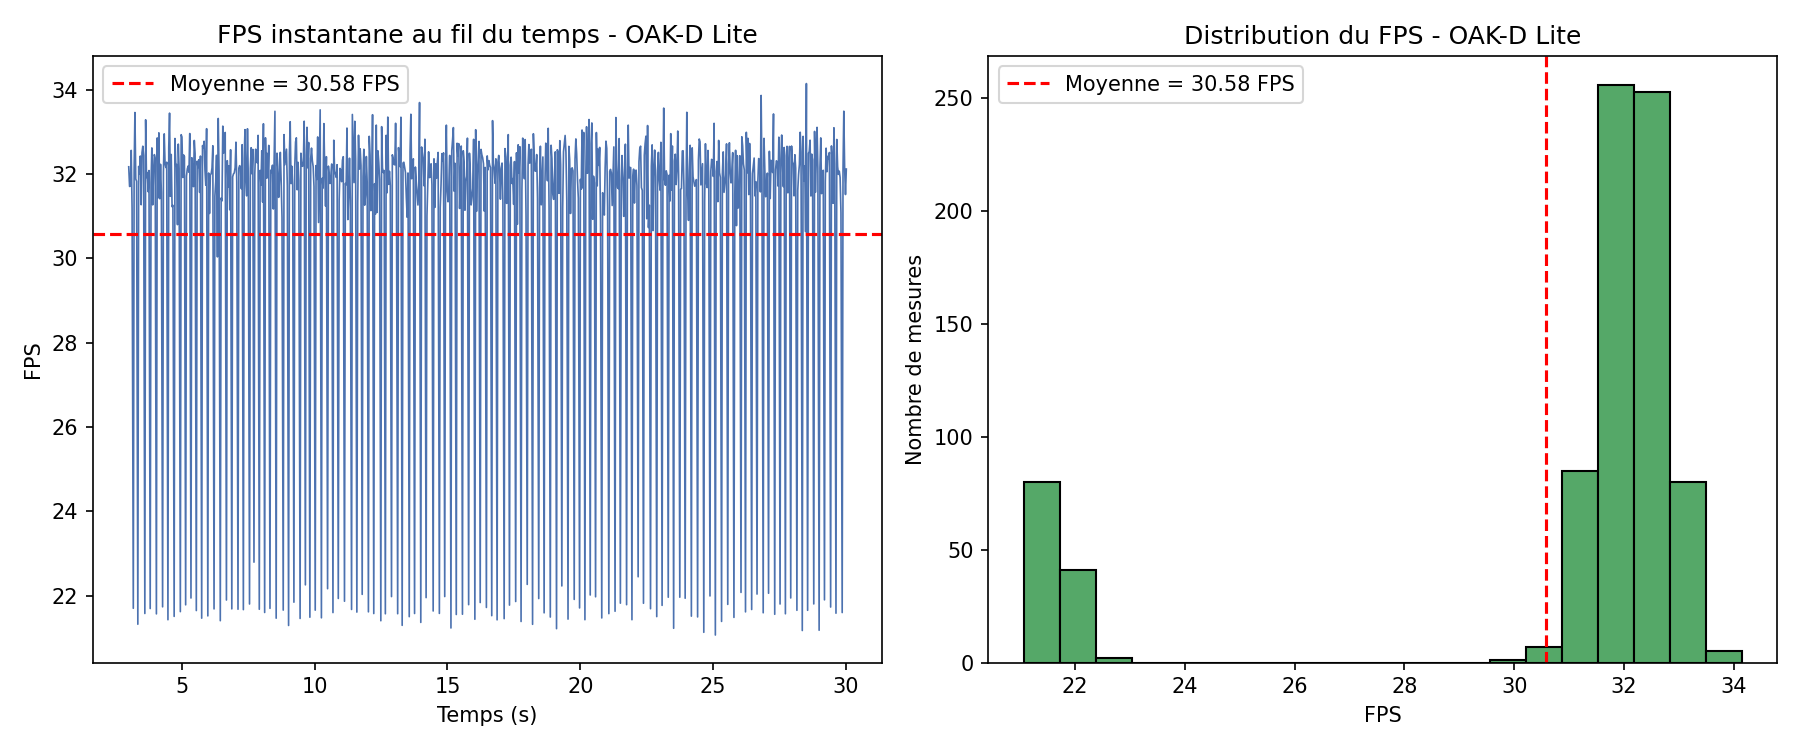
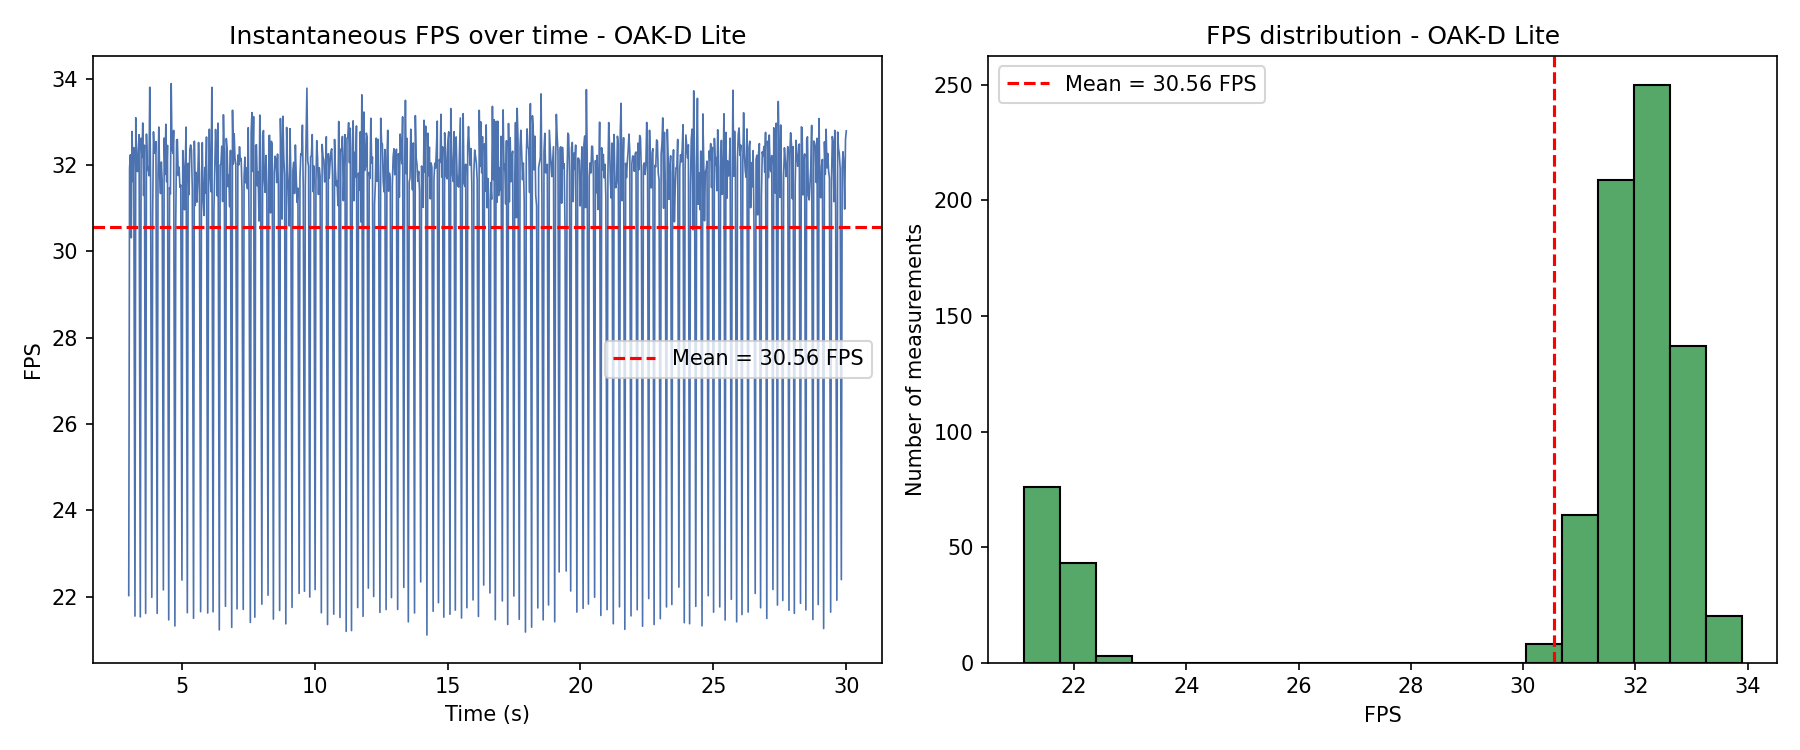
OAK-D Lite: final benchmark runs (50.51 ms, 31.98 FPS, 58/80)

diff --git a/cameras/5-oak-d-lite/benchmark/latency/benchmark_latence_oakd.py b/cameras/5-oak-d-lite/benchmark/latency/benchmark_latence_oakd.py
@@ -18,9 +18,9 @@ PING_TIMEOUT = 1.0
 
 
 def mesurer_segment_a():
-    """Segment A : latence de traitement (mesure cote PC, capture -> resultat recu)."""
+    """Segment A: processing latency (measured on the PC side, capture -> result received)."""
     mesures_ms = []
-    frames_en_attente = {}  # sequence_num -> time.perf_counter() a la reception de la frame
+    frames_en_attente = {}  # sequence_num -> time.perf_counter() when the frame was received
 
     demarrage = False
 
@@ -36,8 +36,8 @@ def mesurer_segment_a():
         nnQueue = nn.out.createOutputQueue()
 
         pipeline.start()
-        print("Positionne-toi devant la camera, puis appuie sur 's' pour demarrer la mesure.")
-        print("(Appuie sur 'q' pour quitter a tout moment)")
+        print("Position yourself in front of the camera, then press 's' to start the measurement.")
+        print("(Press 'q' to quit at any time)")
 
         dernier_label, dernier_score = "none", 0.0
 
@@ -50,10 +50,10 @@ def mesurer_segment_a():
                 texte = f"{dernier_label} ({dernier_score:.2f})"
                 couleur = (0, 255, 0) if demarrage else (0, 165, 255)
                 cv2.putText(frame, texte, (10, 25), cv2.FONT_HERSHEY_SIMPLEX, 0.8, couleur, 2)
-                statut = "MESURE EN COURS" if demarrage else "Appuie sur 's' pour demarrer"
+                statut = "MEASURING" if demarrage else "Press 's' to start"
                 cv2.putText(frame, f"{statut} ({len(mesures_ms)}/{N_MESURES})",
                             (10, INPUT_SIZE - 15), cv2.FONT_HERSHEY_SIMPLEX, 0.5, couleur, 1)
-                cv2.imshow("OAK-D Lite - benchmark latence", frame)
+                cv2.imshow("OAK-D Lite - latency benchmark", frame)
 
             if nnQueue.has():
                 resultat = nnQueue.get()
@@ -76,7 +76,7 @@ def mesurer_segment_a():
             touche = cv2.waitKey(1)
             if touche == ord('s') and not demarrage:
                 demarrage = True
-                print("Mesure demarree...")
+                print("Measurement started...")
             elif touche == ord('q'):
                 break
 
@@ -90,7 +90,7 @@ def mesurer_segment_a():
 def mesurer_segment_bc():
     ser = serial.Serial(COM_ROBOT, BAUDRATE_ROBOT, timeout=0)
 
-    # Redemarrage logiciel du robot (identique aux autres solutions)
+    # Software restart of the robot (identical to the other solutions)
     time.sleep(0.3)
     ser.write(b'\x03'); time.sleep(0.2)
     ser.write(b'\x02'); time.sleep(0.2)
@@ -108,7 +108,7 @@ def mesurer_segment_bc():
     for i in range(N_MESURES):
         message = json.dumps({"ping": i}) + "\n"
         while ser.in_waiting:
-            ser.readline()  # purge le buffer avant d'envoyer
+            ser.readline()  # flush the buffer before sending
 
         t_envoi = time.perf_counter()
         ser.write(message.encode())
@@ -148,45 +148,45 @@ def calculer_stats(mesures):
 def generer_graphique(mesures_a, mesures_bc, stats_a, stats_bc):
     fig, axes = plt.subplots(1, 2, figsize=(12, 5))
 
-    # Histogramme Segment A
+    # Segment A histogram
     axes[0].hist(mesures_a, bins=20, color="#4C72B0", edgecolor="black")
-    axes[0].axvline(stats_a["moyenne"], color="red", linestyle="--", label=f"Moyenne = {stats_a['moyenne']:.2f} ms")
-    axes[0].set_title("Segment A - OAK-D Lite (traitement)")
-    axes[0].set_xlabel("Latence (ms)")
-    axes[0].set_ylabel("Nombre de mesures")
+    axes[0].axvline(stats_a["moyenne"], color="red", linestyle="--", label=f"Mean = {stats_a['moyenne']:.2f} ms")
+    axes[0].set_title("Segment A - OAK-D Lite (processing)")
+    axes[0].set_xlabel("Latency (ms)")
+    axes[0].set_ylabel("Number of measurements")
     axes[0].legend()
 
-    # Barres comparatives des deux segments
+    # Bar comparison of the two segments
     labels = ["Segment A\n(OAK-D Lite)", "Segment B+C\n(communication)"]
     moyennes = [stats_a["moyenne"], stats_bc["moyenne"]]
     ecarts = [stats_a["ecart_type"], stats_bc["ecart_type"]]
     axes[1].bar(labels, moyennes, yerr=ecarts, capsize=8, color=["#4C72B0", "#DD8452"])
-    axes[1].set_title("Comparaison des segments de latence")
-    axes[1].set_ylabel("Latence moyenne (ms)")
+    axes[1].set_title("Comparison of the latency segments")
+    axes[1].set_ylabel("Mean latency (ms)")
 
     plt.tight_layout()
     plt.savefig("graphique_latence_oakd.png", dpi=150)
-    print("Graphique enregistre : graphique_latence_oakd.png")
+    print("Chart saved: graphique_latence_oakd.png")
     plt.show()
 
 
 def main():
     mesures_a = mesurer_segment_a()
     stats_a = calculer_stats(mesures_a)
-    print("Segment A (OAK-D Lite) :", stats_a, f"-- {len(mesures_a)} mesures")
+    print("Segment A (OAK-D Lite):", stats_a, f"-- {len(mesures_a)} measurements")
 
     mesures_bc = mesurer_segment_bc()
     stats_bc = calculer_stats(mesures_bc)
-    print("Segment B+C (communication) :", stats_bc, f"-- {len(mesures_bc)} mesures")
+    print("Segment B+C (communication):", stats_bc, f"-- {len(mesures_bc)} measurements")
 
     with open("resultats_latence_oakd.csv", "w", newline="") as f:
         writer = csv.writer(f)
-        writer.writerow(["segment", "moyenne_ms", "mediane_ms", "ecart_type_ms", "min_ms", "max_ms", "n"])
+        writer.writerow(["segment", "mean_ms", "median_ms", "std_dev_ms", "min_ms", "max_ms", "n"])
         writer.writerow(["Segment A (OAK-D Lite)", stats_a["moyenne"], stats_a["mediane"],
                           stats_a["ecart_type"], stats_a["min"], stats_a["max"], len(mesures_a)])
         writer.writerow(["Segment B+C (communication)", stats_bc["moyenne"], stats_bc["mediane"],
                           stats_bc["ecart_type"], stats_bc["min"], stats_bc["max"], len(mesures_bc)])
-    print("Resultats exportes dans resultats_latence_oakd.csv")
+    print("Results exported to resultats_latence_oakd.csv")
 
     if mesures_a:
         generer_graphique(mesures_a, mesures_bc, stats_a, stats_bc)

diff --git a/cameras/5-oak-d-lite/benchmark/reliability/benchmark_fiabilite_oakd.py b/cameras/5-oak-d-lite/benchmark/reliability/benchmark_fiabilite_oakd.py
@@ -7,7 +7,7 @@ import matplotlib.pyplot as plt
 from oakd_common import BLOB_PATH, INPUT_SIZE, decoder_yolo
 
 # ----------------------------------------------------------------
-N_PAR_GESTE = 20  # nombre d'essais vises pour chaque geste
+N_PAR_GESTE = 20  # target number of trials for each gesture
 
 GESTES = ["Forward", "Stop", "Left", "Right"]
 TOUCHE_GESTE = {
@@ -20,7 +20,7 @@ TOUCHE_GESTE = {
 
 
 def acquerir_essais():
-    essais = []  # (voulu, detecte)
+    essais = []  # (intended, detected)
     compteur = {g: 0 for g in GESTES}
     dernier_label = "none"
     dernier_score = 0.0
@@ -37,8 +37,8 @@ def acquerir_essais():
         nnQueue = nn.out.createOutputQueue()
 
         pipeline.start()
-        print("Fais un geste, puis appuie sur 1=Forward 2=Stop 3=Left 4=Right pour valider l'essai.")
-        print("(Appuie sur 'q' pour quitter a tout moment)")
+        print("Perform a gesture, then press 1=Forward 2=Stop 3=Left 4=Right to validate the trial.")
+        print("(Press 'q' to quit at any time)")
 
         while pipeline.isRunning():
             if nnQueue.has():
@@ -50,7 +50,7 @@ def acquerir_essais():
                 frame_msg = previewQueue.get()
                 frame = frame_msg.getCvFrame()
 
-                texte = f"Detecte : {dernier_label} ({dernier_score:.2f})"
+                texte = f"Detected: {dernier_label} ({dernier_score:.2f})"
                 cv2.putText(frame, texte, (10, 25), cv2.FONT_HERSHEY_SIMPLEX, 0.7, (0, 255, 0), 2)
 
                 y = 50
@@ -59,7 +59,7 @@ def acquerir_essais():
                                 cv2.FONT_HERSHEY_SIMPLEX, 0.5, (255, 255, 255), 1)
                     y += 20
 
-                cv2.imshow("OAK-D Lite - benchmark fiabilite", frame)
+                cv2.imshow("OAK-D Lite - reliability benchmark", frame)
 
             touche = cv2.waitKey(1) & 0xFF
             if touche == ord('q'):
@@ -68,7 +68,7 @@ def acquerir_essais():
                 voulu = TOUCHE_GESTE[touche]
                 essais.append((voulu, dernier_label))
                 compteur[voulu] += 1
-                print(f"Essai enregistre : voulu={voulu}, detecte={dernier_label} "
+                print(f"Trial recorded: intended={voulu}, detected={dernier_label} "
                       f"({sum(compteur.values())}/{N_PAR_GESTE * len(GESTES)})")
 
                 if all(compteur[g] >= N_PAR_GESTE for g in GESTES):
@@ -97,9 +97,9 @@ def generer_graphique(matrice, labels_possibles):
     ax.set_xticklabels(labels_possibles, rotation=45, ha="right")
     ax.set_yticks(range(len(GESTES)))
     ax.set_yticklabels(GESTES)
-    ax.set_xlabel("Geste detecte")
-    ax.set_ylabel("Geste voulu")
-    ax.set_title("Matrice de confusion - OAK-D Lite")
+    ax.set_xlabel("Detected gesture")
+    ax.set_ylabel("Intended gesture")
+    ax.set_title("Confusion matrix - OAK-D Lite")
 
     for i in range(len(GESTES)):
         for j in range(len(labels_possibles)):
@@ -107,10 +107,10 @@ def generer_graphique(matrice, labels_possibles):
             couleur = "white" if valeur > data.max() / 2 else "black"
             ax.text(j, i, str(valeur), ha="center", va="center", color=couleur)
 
-    fig.colorbar(im, ax=ax, label="Nombre d'essais")
+    fig.colorbar(im, ax=ax, label="Number of trials")
     plt.tight_layout()
     plt.savefig("graphique_fiabilite_oakd.png", dpi=150)
-    print("Graphique enregistre : graphique_fiabilite_oakd.png")
+    print("Chart saved: graphique_fiabilite_oakd.png")
     plt.show()
 
 
@@ -118,26 +118,26 @@ def main():
     essais = acquerir_essais()
 
     if not essais:
-        print("Aucun essai enregistre.")
+        print("No trial recorded.")
         return
 
     matrice, labels_possibles = construire_matrice_confusion(essais)
 
-    print("\nMatrice de confusion :")
+    print("\nConfusion matrix:")
     for voulu in GESTES:
         print(voulu, matrice[voulu])
 
     n_correct = sum(matrice[g][g] for g in GESTES)
     n_total = len(essais)
     taux_reussite = 100.0 * n_correct / n_total
-    print(f"\nTaux de reussite global : {n_correct}/{n_total} ({taux_reussite:.1f}%)")
+    print(f"\nOverall success rate: {n_correct}/{n_total} ({taux_reussite:.1f}%)")
 
     with open("resultats_fiabilite_oakd.csv", "w", newline="") as f:
         writer = csv.writer(f)
-        writer.writerow(["voulu"] + labels_possibles)
+        writer.writerow(["intended"] + labels_possibles)
         for voulu in GESTES:
             writer.writerow([voulu] + [matrice[voulu][det] for det in labels_possibles])
-    print("Resultats exportes dans resultats_fiabilite_oakd.csv")
+    print("Results exported to resultats_fiabilite_oakd.csv")
 
     generer_graphique(matrice, labels_possibles)
 

diff --git a/cameras/5-oak-d-lite/benchmark/fps/benchmark_fps_oakd.py b/cameras/5-oak-d-lite/benchmark/fps/benchmark_fps_oakd.py
@@ -43,8 +43,8 @@ def mesurer_fps():
         nnQueue = nn.out.createOutputQueue()
 
         pipeline.start()
-        print("Positionne-toi devant la camera, puis appuie sur 's' pour demarrer la mesure (30 s).")
-        print("(Appuie sur 'q' pour quitter a tout moment)")
+        print("Position yourself in front of the camera, then press 's' to start the measurement (30 s).")
+        print("(Press 'q' to quit at any time)")
 
         dernier_label, dernier_score = "none", 0.0
         fps_affiche = 0.0
@@ -60,11 +60,11 @@ def mesurer_fps():
 
                 if demarrage:
                     t_ecoule = time.perf_counter() - t_start
-                    statut = f"MESURE EN COURS  {t_ecoule:4.1f}/{DUREE_MESURE:.0f}s   FPS instant. = {fps_affiche:5.1f}"
+                    statut = f"MEASURING  {t_ecoule:4.1f}/{DUREE_MESURE:.0f}s   instant. FPS = {fps_affiche:5.1f}"
                 else:
-                    statut = "Appuie sur 's' pour demarrer"
+                    statut = "Press 's' to start"
                 cv2.putText(frame, statut, (10, INPUT_SIZE - 15), cv2.FONT_HERSHEY_SIMPLEX, 0.5, couleur, 1)
-                cv2.imshow("OAK-D Lite - benchmark debit (FPS)", frame)
+                cv2.imshow("OAK-D Lite - throughput (FPS) benchmark", frame)
 
             if nnQueue.has():
                 resultat = nnQueue.get()
@@ -90,7 +90,7 @@ def mesurer_fps():
                 demarrage = True
                 t_start = time.perf_counter()
                 t_prev = t_start
-                print("Mesure demarree...")
+                print("Measurement started...")
             elif touche == ord('q'):
                 break
 
@@ -106,23 +106,23 @@ def generer_graphique(donnees_utiles, stats_global):
 
     axes[0].plot(t_rel, fps_vals, color="#4C72B0", linewidth=0.8)
     axes[0].axhline(stats_global["moyenne"], color="red", linestyle="--",
-                     label=f"Moyenne = {stats_global['moyenne']:.2f} FPS")
-    axes[0].set_title("FPS instantane au fil du temps - OAK-D Lite")
-    axes[0].set_xlabel("Temps (s)")
+                     label=f"Mean = {stats_global['moyenne']:.2f} FPS")
+    axes[0].set_title("Instantaneous FPS over time - OAK-D Lite")
+    axes[0].set_xlabel("Time (s)")
     axes[0].set_ylabel("FPS")
     axes[0].legend()
 
     axes[1].hist(fps_vals, bins=20, color="#55A868", edgecolor="black")
     axes[1].axvline(stats_global["moyenne"], color="red", linestyle="--",
-                     label=f"Moyenne = {stats_global['moyenne']:.2f} FPS")
-    axes[1].set_title("Distribution du FPS - OAK-D Lite")
+                     label=f"Mean = {stats_global['moyenne']:.2f} FPS")
+    axes[1].set_title("FPS distribution - OAK-D Lite")
     axes[1].set_xlabel("FPS")
-    axes[1].set_ylabel("Nombre de mesures")
+    axes[1].set_ylabel("Number of measurements")
     axes[1].legend()
 
     plt.tight_layout()
     plt.savefig("graphique_fps_oakd.png", dpi=150)
-    print("Graphique enregistre : graphique_fps_oakd.png")
+    print("Chart saved: graphique_fps_oakd.png")
     plt.show()
 
 
@@ -138,18 +138,18 @@ def main():
     stats_actif = calculer_stats(fps_actif)
     stats_none = calculer_stats(fps_none)
 
-    print("FPS global :", stats_global)
-    print("FPS (detection active) :", stats_actif)
-    print("FPS (aucune detection) :", stats_none)
+    print("Global FPS:", stats_global)
+    print("FPS (active detection):", stats_actif)
+    print("FPS (no detection):", stats_none)
 
     with open("resultats_fps_oakd.csv", "w", newline="") as f:
         writer = csv.writer(f)
-        writer.writerow(["categorie", "n", "moyenne", "mediane", "ecart_type", "min", "max"])
-        for nom, stats in [("Global", stats_global), ("Detection active", stats_actif), ("Aucune detection", stats_none)]:
+        writer.writerow(["category", "n", "mean", "median", "std_dev", "min", "max"])
+        for nom, stats in [("Global", stats_global), ("Active detection", stats_actif), ("No detection", stats_none)]:
             if stats:
                 writer.writerow([nom, stats["n"], stats["moyenne"], stats["mediane"],
                                   stats["ecart_type"], stats["min"], stats["max"]])
-    print("Resultats exportes dans resultats_fps_oakd.csv")
+    print("Results exported to resultats_fps_oakd.csv")
 
     if donnees_utiles:
         generer_graphique(donnees_utiles, stats_global)

diff --git a/cameras/5-oak-d-lite/benchmark/fps/oakd_common.py b/cameras/5-oak-d-lite/benchmark/fps/oakd_common.py
@@ -33,7 +33,7 @@ def creer_pipeline():
     return pipeline, nnQueue
 
 def creer_pipeline_avec_preview():
-    """Variante qui expose aussi le flux image (pour associer timestamps)."""
+    """Variant that also exposes the image stream (to associate timestamps)."""
     pipeline = dai.Pipeline()
     cam = pipeline.create(dai.node.Camera).build()
     camOut = cam.requestOutput((INPUT_SIZE, INPUT_SIZE), type=dai.ImgFrame.Type.BGR888p)

diff --git a/cameras/5-oak-d-lite/benchmark/latency/oakd_common.py b/cameras/5-oak-d-lite/benchmark/latency/oakd_common.py
@@ -33,7 +33,7 @@ def creer_pipeline():
     return pipeline, nnQueue
 
 def creer_pipeline_avec_preview():
-    """Variante qui expose aussi le flux image (pour associer timestamps)."""
+    """Variant that also exposes the image stream (to associate timestamps)."""
     pipeline = dai.Pipeline()
     cam = pipeline.create(dai.node.Camera).build()
     camOut = cam.requestOutput((INPUT_SIZE, INPUT_SIZE), type=dai.ImgFrame.Type.BGR888p)

diff --git a/cameras/5-oak-d-lite/benchmark/reliability/oakd_common.py b/cameras/5-oak-d-lite/benchmark/reliability/oakd_common.py
@@ -33,7 +33,7 @@ def creer_pipeline():
     return pipeline, nnQueue
 
 def creer_pipeline_avec_preview():
-    """Variante qui expose aussi le flux image (pour associer timestamps)."""
+    """Variant that also exposes the image stream (to associate timestamps)."""
     pipeline = dai.Pipeline()
     cam = pipeline.create(dai.node.Camera).build()
     camOut = cam.requestOutput((INPUT_SIZE, INPUT_SIZE), type=dai.ImgFrame.Type.BGR888p)
